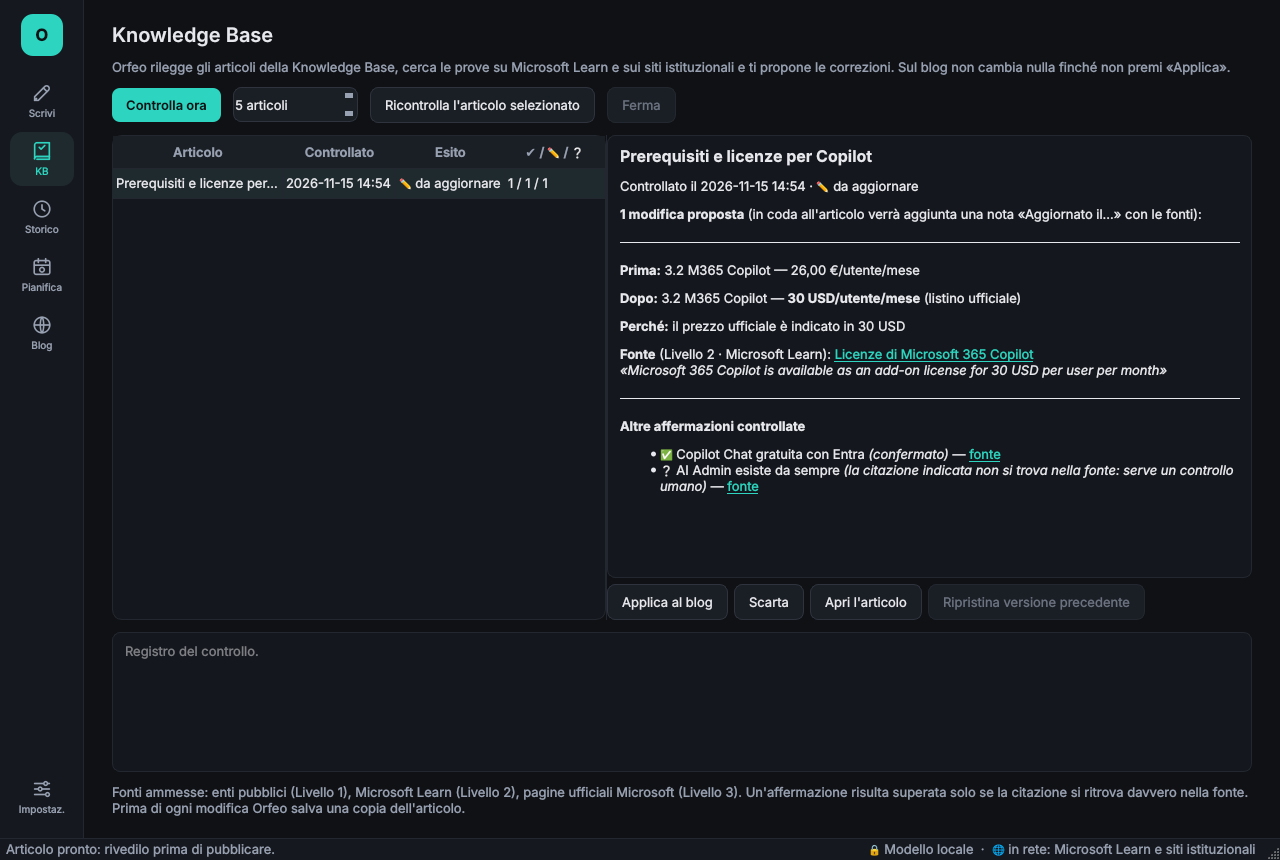
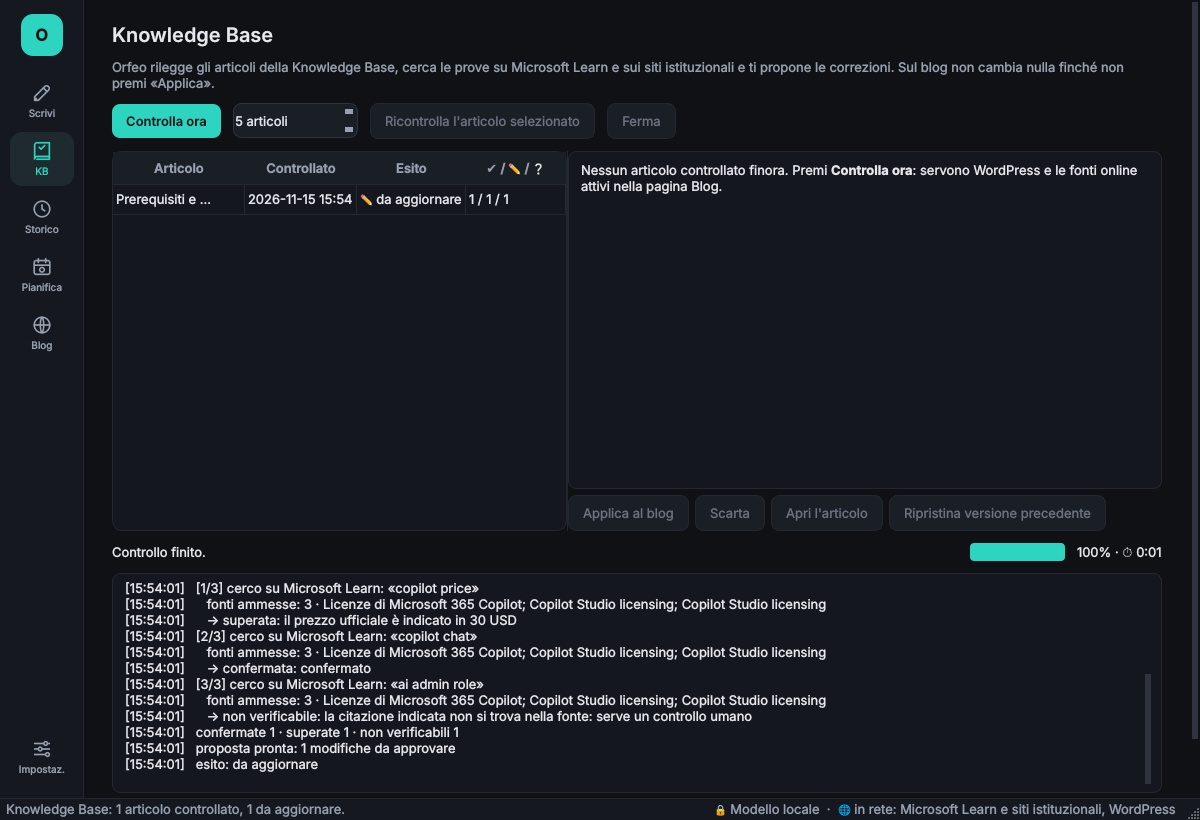
Avanzamento visibile nel controllo della Knowledge Base
Claude-Session: https://claude.ai/code/session_01SbYgxPuzUgeszVLmVpUdEm

diff --git a/app/kb.py b/app/kb.py
@@ -136,9 +136,12 @@ def blocco_nota(modifiche, quando):
 
 # ---------------------------------------------------------------- revisione
 class Revisione:
-    def __init__(self, imp=None, log=print, stop=None, quanti=None, solo_id=None):
+    def __init__(self, imp=None, log=print, stop=None, quanti=None, solo_id=None, progresso=None):
         self.imp = imp or dati.carica_impostazioni()
         self._log = log
+        # progresso(percentuale 0-100, fase): facoltativo, lo usa la pagina KB per barra e fase corrente
+        self._progresso = progresso
+        self._tot, self._i = 1, 0
         self.stop = stop or (lambda: False)
         self.quanti = int(quanti or self.imp.get("kb_per_esecuzione", 5))
         self.solo_id = solo_id
@@ -149,6 +152,15 @@ class Revisione:
             self._log(f"[{datetime.now():%H:%M:%S}] {t}")
         except Exception:
             pass
+
+    def prog(self, frazione_articolo, fase):
+        """Avanzamento complessivo = articoli finiti + frazione dell'articolo in corso."""
+        if self._progresso:
+            try:
+                pct = int(100 * (self._i + max(0.0, min(1.0, frazione_articolo))) / max(1, self._tot))
+                self._progresso(pct, fase)
+            except Exception:
+                pass
 
     def _ferma_se_serve(self):
         if self.stop():
@@ -173,6 +185,7 @@ class Revisione:
         self.conn = wp.connessione(imp)
         if not imp.get("modello_chat"):
             raise RuntimeError("Nessun modello scelto: vai in Impostazioni → Modello linguistico locale.")
+        self.log(f"Collegamento: {self.conn.descrizione} · modello {imp['modello_chat']}")
         if not llm.assicura_avviato(imp["ollama_url"], log=self.log):
             raise RuntimeError(f"Ollama non risponde su {imp['ollama_url']}: aprilo e riprova.")
 
@@ -206,8 +219,12 @@ class Revisione:
                 return (0 if not s else 1 if cambiato else 2, s.get("ultimo_controllo", ""))
             scelti = sorted((a for a in articoli if str(a["id"]) not in in_attesa), key=priorita)[:self.quanti]
         n_prop = 0
+        self._tot = max(1, len(scelti))
+        self.log(f"Da controllare in questo giro: {len(scelti)} (prima i mai controllati, poi quelli modificati)")
         for i, a in enumerate(scelti, 1):
-            self.log(f"[{i}/{len(scelti)}] {a['titolo']}")
+            self._i = i - 1
+            self.log(f"── [{i}/{len(scelti)}] {a['titolo']}")
+            self.prog(0, f"Articolo {i} di {len(scelti)}: {a['titolo']}")
             try:
                 esito = self._revisiona(a)
             except (Interrotto, KeyboardInterrupt):
@@ -219,7 +236,10 @@ class Revisione:
             stato[str(a["id"])] = {"titolo": a["titolo"], "link": a["link"], "impronta": impronta(a["raw"]),
                                    "ultimo_controllo": datetime.now().strftime("%Y-%m-%d %H:%M"), **esito}
             salva_stato(stato)
+            self.log(f"  esito: {esito.get('esito', '?').replace('_', ' ')}")
             n_prop += 1 if esito.get("esito") == "da_aggiornare" else 0
+        self._i = self._tot
+        self.prog(0, "Controllo finito")
         return {"esito": "ok", "controllati": len(scelti), "proposte": n_prop, "totale": len(articoli),
                 "titolo": f"Knowledge Base: {_n(len(scelti), 'articolo controllato', 'articoli controllati')}, "
                           f"{n_prop} da aggiornare"}
@@ -233,6 +253,9 @@ class Revisione:
         if len(testo) > 14000:
             testo = testo[:14000]
             self.problemi.append(f"{a['titolo']}: articolo lungo, controllata solo la prima parte")
+        self.log(f"  {len(segs)} paragrafi · chiedo al modello quali affermazioni possono essere superate "
+                 f"(con un modello da 12B può servire qualche minuto)…")
+        self.prog(0.02, f"{a['titolo']}: individuo le affermazioni da verificare")
         r = self._chat_json(f"""ARTICOLO: {a['titolo']}
 {testo}
 
@@ -260,18 +283,27 @@ Rispondi solo con JSON: {{"affermazioni": [{{"segmento": "T5", "affermazione": "
             if len(da_articolo) >= 3:
                 break
 
+        for k, x in enumerate(aff, 1):
+            self.log(f"   {k}. «{str(x.get('affermazione', ''))[:110]}»")
         controlli, modifiche, usati = [], [], set()
-        for x in aff:
+        for k, x in enumerate(aff, 1):
             self._ferma_se_serve()
+            ricerca = str(x.get("ricerca") or x.get("affermazione"))
+            self.prog(0.15 + 0.85 * (k - 1) / len(aff), f"{a['titolo']}: affermazione {k} di {len(aff)}, cerco le fonti")
+            self.log(f"  [{k}/{len(aff)}] cerco su Microsoft Learn: «{ricerca[:90]}»")
             try:
-                trovate = learn_mcp.cerca(str(x.get("ricerca") or x.get("affermazione")), 3)
+                trovate = learn_mcp.cerca(ricerca, 3)
             except learn_mcp.ErroreLearn as e:
                 self.problemi.append(str(e))
+                self.log(f"     Microsoft Learn non risponde: {e}")
                 trovate = []
             fonti_x = (trovate + da_articolo)[:5]
-            for k, f in enumerate(fonti_x, 1):
-                f.id = f"S{k}"
+            for j, f in enumerate(fonti_x, 1):
+                f.id = f"S{j}"
+            self.log(f"     fonti ammesse: {len(fonti_x)}" + (" · " + "; ".join(f.titolo[:50] for f in fonti_x[:3]) if fonti_x else ""))
+            self.prog(0.15 + 0.85 * (k - 0.5) / len(aff), f"{a['titolo']}: affermazione {k} di {len(aff)}, confronto con le fonti")
             c = self._verifica(x, per_id[x["segmento"]], fonti_x)
+            self.log(f"     → {c['esito'].replace('_', ' ')}: {c['motivo'][:120]}")
             controlli.append(c)
             if c["esito"] == "superata" and x["segmento"] not in usati:
                 usati.add(x["segmento"])

diff --git a/app/pagina_kb.py b/app/pagina_kb.py
@@ -4,11 +4,12 @@
 """
 import html
 import re
+import time
 from datetime import datetime
 
-from PySide6.QtCore import Qt
-from PySide6.QtWidgets import (QAbstractItemView, QHBoxLayout, QHeaderView, QMessageBox, QPlainTextEdit,
-                               QPushButton, QSpinBox, QSplitter, QTableWidget, QTableWidgetItem, QTextBrowser,
+from PySide6.QtCore import Qt, QTimer
+from PySide6.QtWidgets import (QAbstractItemView, QHBoxLayout, QHeaderView, QLabel, QMessageBox, QPlainTextEdit,
+                               QProgressBar, QPushButton, QSpinBox, QSplitter, QTableWidget, QTableWidgetItem, QTextBrowser,
                                QVBoxLayout, QWidget)
 
 import comune
@@ -20,6 +21,7 @@ from lavoro import Lavoro
 from pagine import Pagina
 from ui_comune import apri, nota
 
+PREFISSO = "\x00PROGRESSO:"  # riconosce i messaggi di avanzamento tra le righe del registro
 ESITI = {"da_aggiornare": "✏ da aggiornare", "aggiornato": "✅ in regola", "non_verificabile": "❔ non verificabile",
          "scartata": "↷ proposta scartata", "ripristinato": "↩ ripristinato", "errore": "❌ errore"}
 
@@ -90,10 +92,27 @@ class PaginaKB(Pagina):
         div.setMinimumHeight(380)
         lay.addWidget(div, 1)
 
+        # avanzamento: fase corrente, barra e tempo trascorso (il modello locale può impiegare minuti per passo)
+        ra = QHBoxLayout()
+        self.l_fase = QLabel("Fermo.")
+        self.l_fase.setWordWrap(True)
+        self.barra = QProgressBar()
+        self.barra.setRange(0, 100)
+        self.barra.setValue(0)
+        self.barra.setMaximumWidth(320)
+        self.l_tempo = QLabel("")
+        ra.addWidget(self.l_fase, 1)
+        ra.addWidget(self.barra)
+        ra.addWidget(self.l_tempo)
+        lay.addLayout(ra)
+        self._inizio = None
+        self._timer = QTimer(self)
+        self._timer.timeout.connect(self._tic)
+
         self.log = QPlainTextEdit()
         self.log.setReadOnly(True)
-        self.log.setMaximumHeight(140)
-        self.log.setPlaceholderText("Registro del controllo.")
+        self.log.setMinimumHeight(220)
+        self.log.setPlaceholderText("Registro del controllo: qui vedi ogni passaggio (affermazioni, ricerche, esiti).")
         lay.addWidget(self.log)
         lay.addWidget(nota("Fonti ammesse: enti pubblici (Livello 1), Microsoft Learn (Livello 2), pagine ufficiali "
                            "Microsoft (Livello 3). Un'affermazione risulta superata solo se la citazione si ritrova "
@@ -184,7 +203,19 @@ class PaginaKB(Pagina):
         self.finestra.statusBar().showMessage(messaggio)
         self.tieni(lav).start()
 
+    def _tic(self):
+        if self._inizio:
+            s = int(time.monotonic() - self._inizio)
+            self.l_tempo.setText(f"{self.barra.value()}% · ⏱ {s // 60}:{s % 60:02d}")
+
+    def _avanza(self, pct, fase):
+        self.barra.setValue(pct)
+        self.l_fase.setText(fase)
+        self._tic()
+
     def _libera(self):
+        self._timer.stop()
+        self._inizio = None
         self.lav = None
         self.b_vai.setEnabled(True)
         self.b_stop.setEnabled(False)
@@ -197,12 +228,29 @@ class PaginaKB(Pagina):
         imp["kb_per_esecuzione"] = self.s_quanti.value()
         dati.salva_impostazioni(imp)
         self.log.clear()
-        lav = Lavoro(lambda l: kb.Revisione(imp, log=l.stato, stop=l.fermato, solo_id=solo_id).avvia(), self)
-        lav.sig_stato.connect(lambda t: (self.log.appendPlainText(t),
-                                         self.finestra.statusBar().showMessage(t.split("] ", 1)[-1][:120])))
+        # l'avanzamento viaggia sullo stesso segnale del registro, con un prefisso che non finisce nel log
+        lav = Lavoro(lambda l: kb.Revisione(imp, log=l.stato, stop=l.fermato, solo_id=solo_id,
+                                            progresso=lambda p, f: l.stato(f"{PREFISSO}{p}|{f}")).avvia(), self)
+        lav.sig_stato.connect(self._messaggio)
+        self.barra.setValue(0)
+        self.l_fase.setText("Avvio: collegamento a WordPress e a Ollama…")
+        self._inizio = time.monotonic()
+        self.l_tempo.setText("⏱ 0:00")
+        self._timer.start(1000)
         lav.sig_fatto.connect(self._fine_controllo)
         lav.sig_errore.connect(lambda e: self._fine_controllo({"esito": "errore", "messaggio": e}))
         self._occupa(lav, "Orfeo sta controllando la Knowledge Base…")
+
+    def _messaggio(self, t):
+        if t.startswith(PREFISSO):
+            pct, _, fase = t[len(PREFISSO):].partition("|")
+            self._avanza(int(pct), fase)
+            return
+        self.log.appendPlainText(t)
+        if "  esito: " in t:  # un articolo è finito: la tabella mostra subito il risultato
+            self.aggiorna()
+        self.log.verticalScrollBar().setValue(self.log.verticalScrollBar().maximum())
+        self.finestra.statusBar().showMessage(t.split("] ", 1)[-1][:120])
 
     def _ricontrolla(self):
         r = self._sel()
@@ -213,7 +261,10 @@ class PaginaKB(Pagina):
         ris.setdefault("origine", "manuale")
         comune.aggiungi_storico(ris)
         self._libera()
+        self.l_fase.setText({"ok": "Controllo finito.", "interrotta": "Controllo fermato."}.get(ris.get("esito"),
+                                                                                              "Controllo non riuscito."))
         if ris.get("esito") == "ok":
+            self.barra.setValue(100)
             self.finestra.statusBar().showMessage(ris["titolo"] + ".", 8000)
         else:
             QMessageBox.warning(self, "Knowledge Base", ris.get("messaggio", "Controllo non riuscito."))

diff --git a/app/progetto.py b/app/progetto.py
@@ -7,7 +7,7 @@ con `python strumenti/nuova_versione.py "titolo della novità"`, che aggiorna an
 import os
 from pathlib import Path
 
-VERSIONE = "20261115.1542"
+VERSIONE = "20261115.1554"
 
 # --- identità -------------------------------------------------------------------------------
 NOME = "Orfeo"                           # nome mostrato (finestra, menu Start, ~/Applications)

diff --git a/CHANGELOG.md b/CHANGELOG.md
@@ -2,6 +2,11 @@
 
 Le versioni hanno il formato `AAAAMMGG.HHMM` (ora di Roma). Il manuale completo è in [docs/MANUALE.md](docs/MANUALE.md).
 
+## 20261115.1554: Avanzamento visibile nel controllo della Knowledge Base
+- Barra di avanzamento, fase corrente e tempo trascorso sotto la tabella
+- Registro dettagliato: affermazioni trovate, ricerche su Microsoft Learn, fonti ammesse ed esito di ogni verifica
+- La tabella si aggiorna dopo ogni articolo, senza aspettare la fine del giro
+
 ## 20261115.1542: Collegamento a WordPress.com con OAuth
 - Nuovo metodo consigliato «WordPress.com»: Orfeo usa l'API ufficiale public-api.wordpress.com e non viene più bloccato dalla modalità difensiva del sito
 - Registrazione una tantum su developer.wordpress.com/apps, poi «Collega con WordPress.com» dal browser; token e segreto solo nel portachiavi
